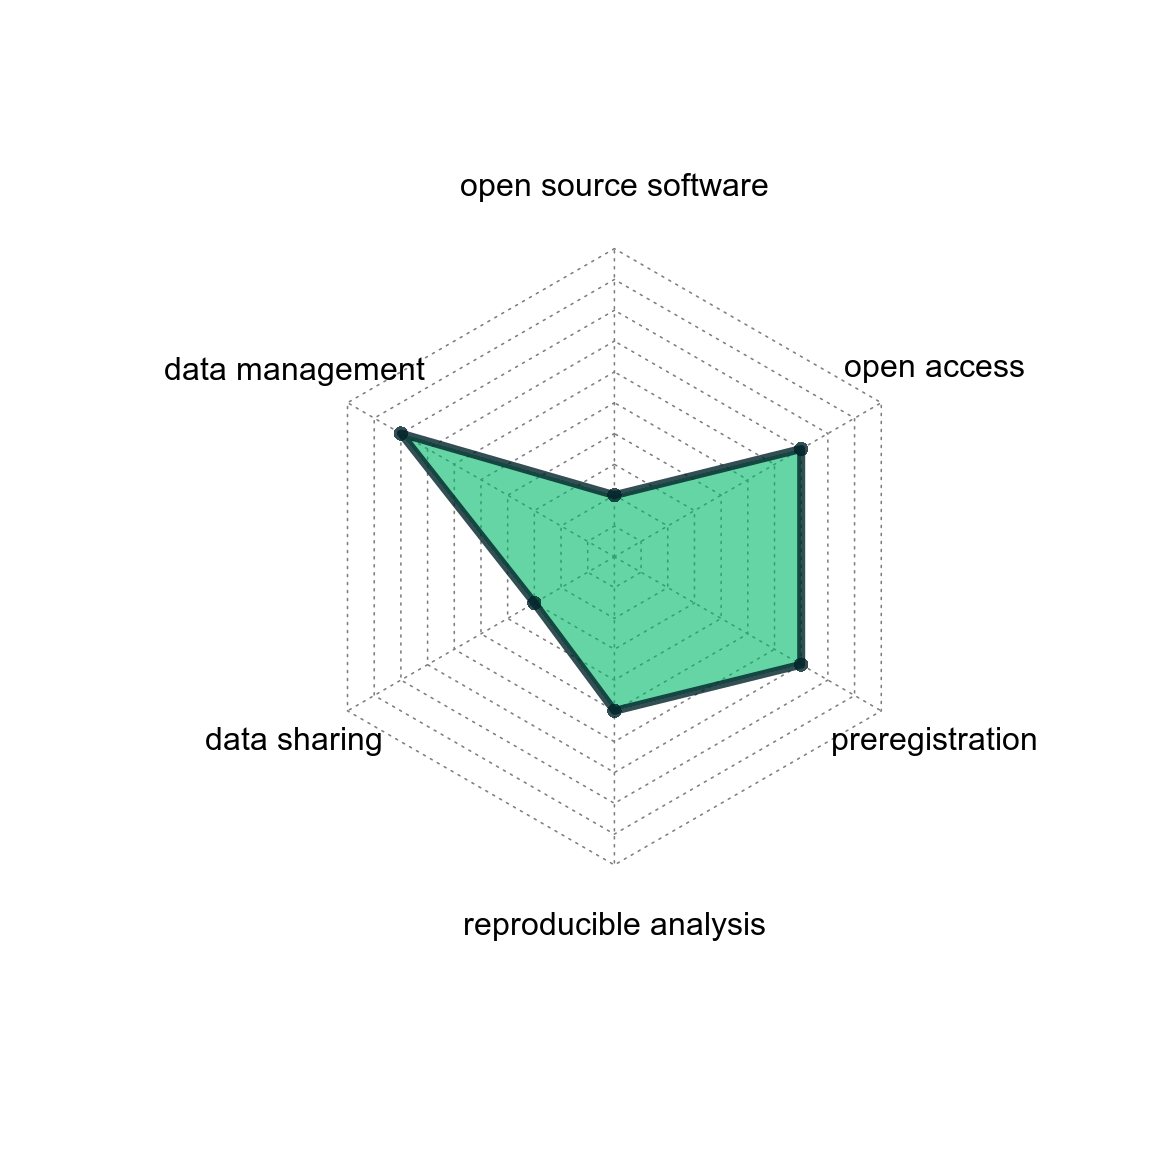
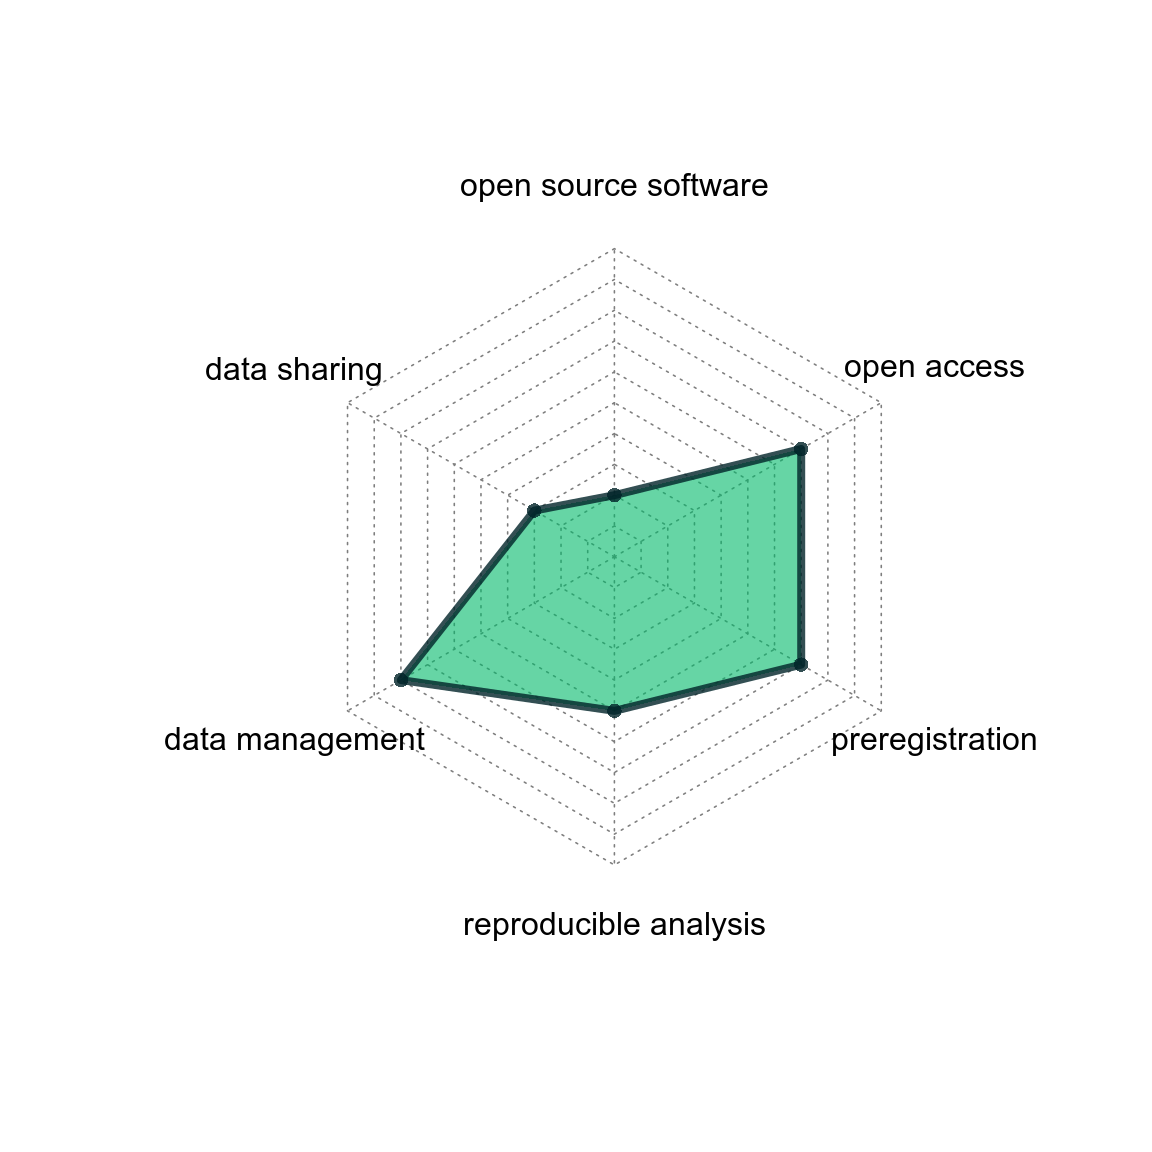
rebuilding site do 12 mrt 2020 14:47:10 CET

Changed region(s): [[0.3438, 0.375, 0.5312, 0.625], [0.125, 0.625, 0.375, 0.6562], [0.125, 0.3125, 0.375, 0.3438]]

diff --git a/1/01/index.html b/1/01/index.html
@@ -1,0 +1,37 @@
+
+
+<div id="description" class="section level1">
+<h1>Description</h1>
+<p>I have a strong interest in methods that facilitate high quality research: reproducible, replicable, relevant, and communicated in a clear and responsible manner also to non-scientific audiences. In terms of substantive interests, my research focuses on dynamic aspects of consumer decision making, more specifically on how preferences evolve over time until a final choice is expressed. In order to gain access to these latent processes, I am using dynamic Bayesian models calibrated on eye-tracking data, building on research in neuroeconomics that supports a strong link between attention and decision making. These models combine features of machine learning, multilevel latent growth, and choice models to infer the build-up of preferences from changes in attention. The aim is to understand how consumers make decisions, and to be able to predict future choices before they are implemented.</p>
+</div>
+<div id="cv-and-contact-info" class="section level1">
+<h1>CV and Contact Info</h1>
+<p>Click on the picture to send an email. The icons on the right redirect to the CV and social media pages.</p>
+
+<p>
+<a href="mailto:martinovici@rsm.nl">
+<img border="0" alt="Ana Martinovici" src="/images/Martinovici.jpg" width="150" height="150" align="left">
+</a>
+</p>
+
+<p align="center">
+<a href="https://anamartinovici.com/files/cv.pdf" class="fa fa-file fa-2x" style="color:#00B969;">
+</a>
+</p>
+
+<p align="center">
+<a href="https://github.com/anamartinovici" class="fa fa-github fa-2x" style="color:#000000;">
+</a>
+</p>
+
+<p align="center">
+<a href="https://anamartinovici.com/" class="fa fa-link fa-2x" style="color:#000000;">
+</a>
+</p>
+<p><BR></p>
+</div>
+<div id="expertise" class="section level1">
+<h1>Expertise</h1>
+<p><img src="martinovici_files/figure-html/radarPlot-1.png" width="576" /></p>
+<hr />
+</div>
